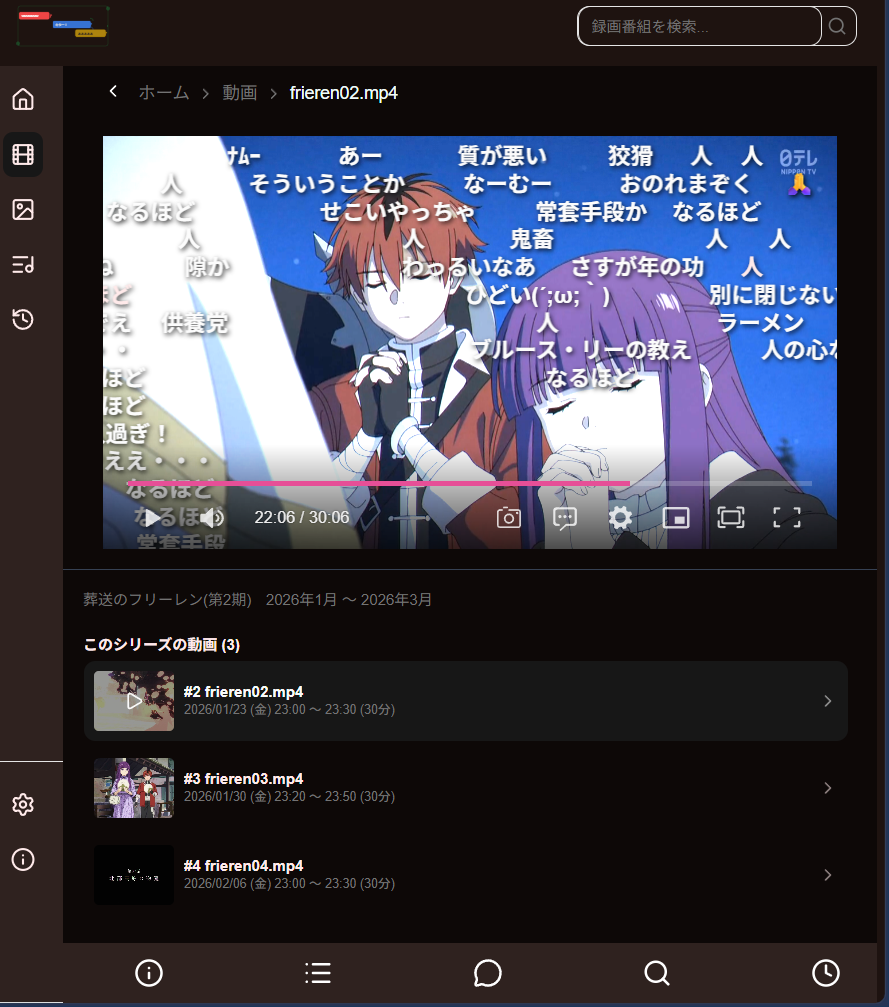
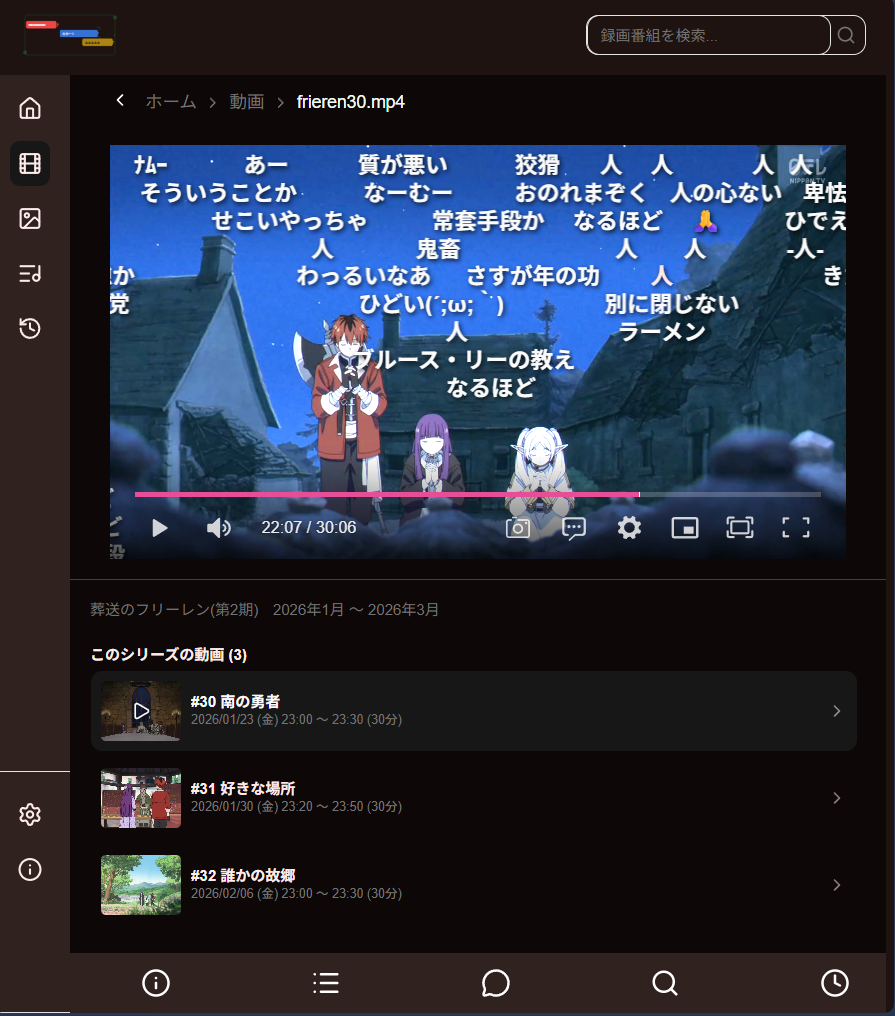
doc: READMEで使うサンプル動画を変更

diff --git a/README.md b/README.md
@@ -60,11 +60,11 @@ CommentPlayer は、ローカルに保存されている動画ファイルをブ
 ## 動画
 
 ### ホーム画面
-<video controls src="https://github.com/user-attachments/assets/05d5f4cd-15b2-4177-be72-11a67a62abe9
+<video controls src="https://github.com/user-attachments/assets/857aa359-e8f8-418b-907b-9171d60bc2b2
 "></video>
 
 ### ビデオ画面
-<video controls src="https://github.com/user-attachments/assets/74bf69bb-7d6d-4494-8a50-70da50343178
+<video controls src="https://github.com/user-attachments/assets/382a5fb7-3b4b-4435-ac6e-9bae60a087bc
 "></video>
 
 ### キャプチャ一覧画面
@@ -247,7 +247,7 @@ http://localhost:8000
 一覧画面で目的の動画を選択して再生します。
 
 #### セットアップ手順の動画
-<video controls src="https://github.com/user-attachments/assets/0465bd9e-299e-4a7a-8d53-b9c3e027ef60
+<video controls src="https://github.com/user-attachments/assets/dfa45dc2-ad91-44c5-addb-3853b2f8f1f6
 " ></video>
 
 ### 他のアクセス方法
